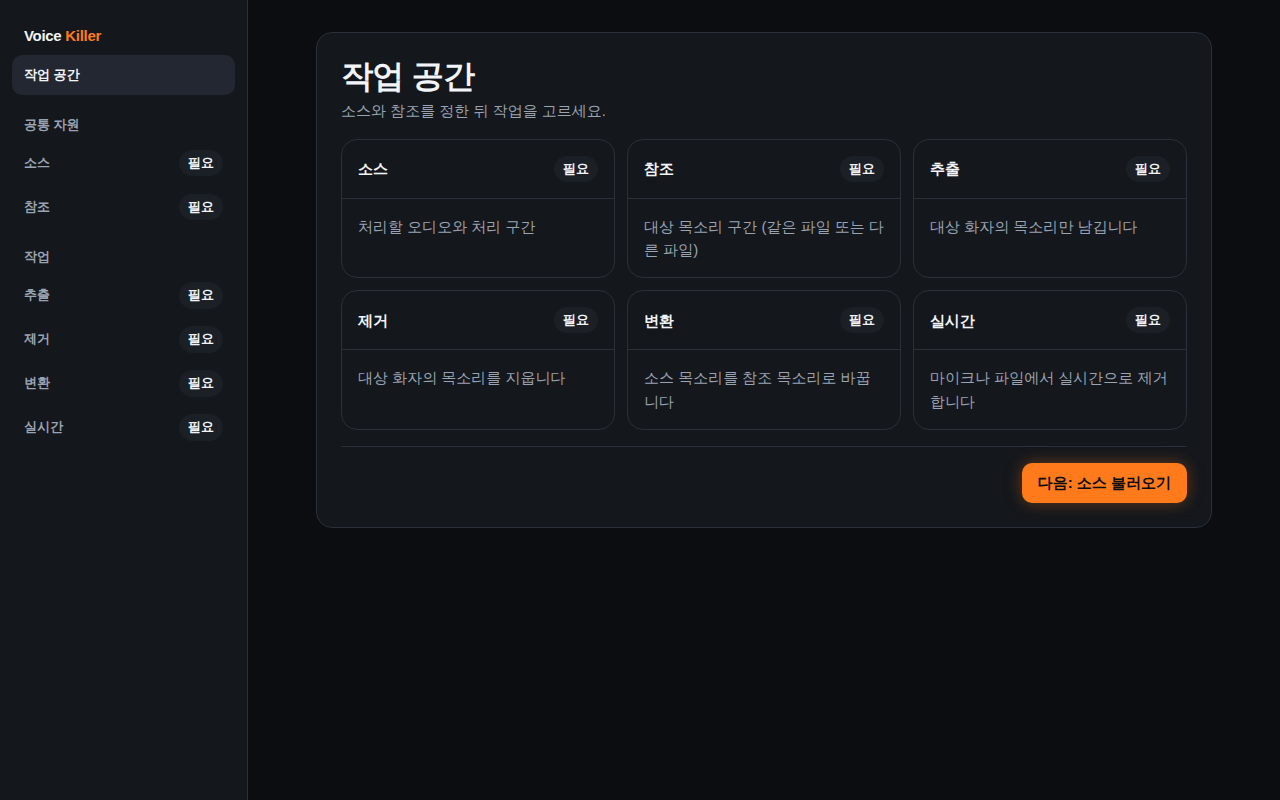
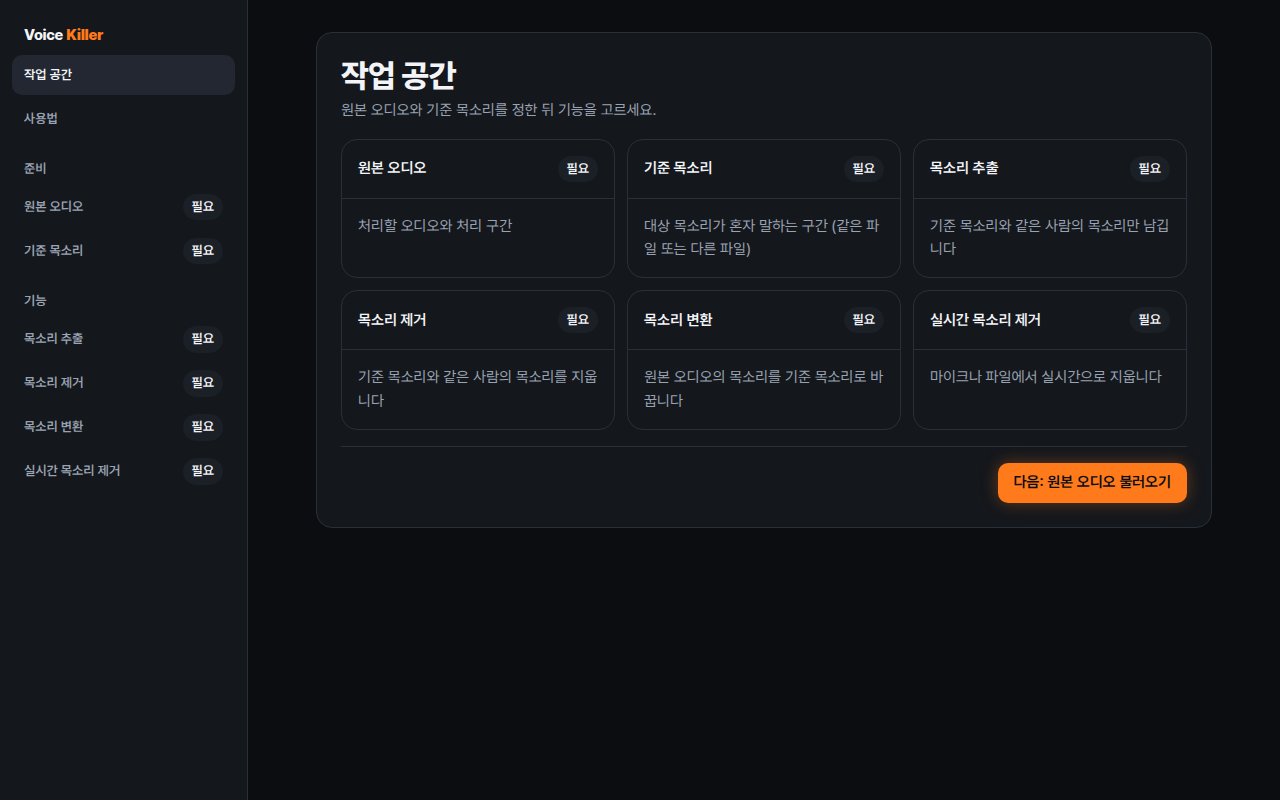
refactor(web): 메뉴 이름을 목소리 중심으로 변경하고 스크린샷 갱신

diff --git a/web/src/Help.tsx b/web/src/Help.tsx
@@ -34,68 +34,68 @@ export function Help() {
 
       <h2 className="vk-title">전체 흐름</h2>
       <p className="vk-muted" style={{ margin: 0 }}>
-        <b>소스</b>(처리할 오디오) → <b>참조</b>(지울/뽑을 사람의 목소리) → <b>작업</b>(추출·제거·변환·실시간) 순서입니다.
+        <b>원본 오디오</b>(처리할 파일) → <b>기준 목소리</b>(지울/뽑을 사람의 목소리) → <b>기능</b>(목소리 추출·제거·변환, 실시간 목소리 제거) 순서입니다.
         왼쪽 메뉴 오른쪽의 <b>필요 / 진행 중 / 완료</b> 배지로 지금 어디까지 했는지 볼 수 있습니다.
       </p>
-      <img className="vk-shot" src={hub} alt="작업 공간: 6개 메뉴가 모두 '필요' 상태이고 '다음: 소스 불러오기' 버튼이 있다" loading="lazy" />
+      <img className="vk-shot" src={hub} alt="작업 공간: 6개 메뉴가 모두 '필요' 상태이고 '다음: 원본 오디오 불러오기' 버튼이 있다" loading="lazy" />
 
-      <h2 className="vk-title">1. 소스 정하기</h2>
+      <h2 className="vk-title">1. 원본 오디오 정하기</h2>
       <ol className="vk-steps">
-        <Step n={1} title="오디오 올리기 또는 녹음" img={sourceEmpty} alt="소스 화면: 파일 올리기, 녹음 시작 버튼">
+        <Step n={1} title="오디오 올리기 또는 녹음" img={sourceEmpty} alt="원본 오디오 화면: 파일 올리기, 녹음 시작 버튼">
           <b>파일 올리기</b>를 누르고 오디오나 영상 파일(wav, mp3, mp4, webm 등)을 고릅니다. 직접 말하려면 <b>녹음 시작</b>을 누르고 끝나면 <b>녹음 중지</b>를 누릅니다.
         </Step>
-        <Step n={2} title="처리 구간 고르기" img={sourceLoaded} alt="소스 화면: 파형 전체가 주황색 처리 구간으로 선택되어 있다">
+        <Step n={2} title="처리 구간 고르기" img={sourceLoaded} alt="원본 오디오 화면: 파형 전체가 주황색 처리 구간으로 선택되어 있다">
           파형 위의 <b>주황색 영역</b>이 처리할 구간입니다. 양쪽 끝을 끌어 줄이고, 가운데를 끌어 옮깁니다. <b>▶ 재생</b>은 파형에서 클릭한 지점부터 재생하고(다시 누르면 <b>⏸ 일시정지</b>), <b>⏮ 처리 구간 처음부터</b>는 구간 시작에서 다시 재생합니다. 구간 끝에 닿으면 멈춥니다.
-          처음에는 파일 전체가 선택됩니다. 소스와 참조 배지가 <b>완료</b>가 되면 준비된 것입니다.
+          처음에는 파일 전체가 선택됩니다. 원본 오디오와 기준 목소리 배지가 <b>완료</b>가 되면 준비된 것입니다.
         </Step>
       </ol>
 
-      <h2 className="vk-title">2. 참조 정하기</h2>
+      <h2 className="vk-title">2. 기준 목소리 정하기</h2>
       <ol className="vk-steps">
-        <Step n={1} title="대상 목소리가 혼자 말하는 구간 지정" img={reference} alt="참조 화면: 참조 위치 선택과 초록색 참조 구간 파형">
-          <b>참조</b>는 "이 사람의 목소리"를 알려 주는 견본입니다. <b>초록색 영역</b>을 대상이 <b>혼자 말하는 5~10초</b>에 맞추세요. 다른 소리가 섞이면 엉뚱한 목소리를 잡을 수 있습니다.
+        <Step n={1} title="대상 목소리가 혼자 말하는 구간 지정" img={reference} alt="기준 목소리 화면: 기준 목소리 위치 선택과 초록색 기준 구간 파형">
+          <b>기준 목소리</b>는 "이 사람의 목소리"를 알려 주는 견본입니다. <b>초록색 영역</b>을 대상이 <b>혼자 말하는 5~10초</b>에 맞추세요. 다른 소리가 섞이면 엉뚱한 목소리를 잡을 수 있습니다.
           <ul>
-            <li><b>소스와 같은 파일</b>: 처리할 파일 안에서 그 사람이 혼자 말하는 곳을 고릅니다. 기본으로 처음 7초가 잡혀 있으니 꼭 확인하세요.</li>
+            <li><b>원본 오디오와 같은 파일</b>: 처리할 파일 안에서 그 사람이 혼자 말하는 곳을 고릅니다. 기본으로 처음 7초가 잡혀 있으니 꼭 확인하세요.</li>
             <li><b>다른 파일</b>: 그 사람의 목소리가 깨끗하게 들어 있는 별도 파일을 올립니다.</li>
           </ul>
           1초보다 짧으면 경고가 뜨고 진행할 수 없습니다.
         </Step>
       </ol>
 
-      <h2 className="vk-title">3. 작업 실행하기</h2>
-      <p className="vk-muted" style={{ margin: 0 }}>소스와 참조가 없어도 작업 메뉴는 열립니다. 이때는 무엇이 빠졌는지 알려 주고, 바로 가는 버튼을 보여 줍니다.</p>
+      <h2 className="vk-title">3. 기능 실행하기</h2>
+      <p className="vk-muted" style={{ margin: 0 }}>원본 오디오와 기준 목소리가 없어도 기능 메뉴는 열립니다. 이때는 무엇이 빠졌는지 알려 주고, 바로 가는 버튼을 보여 줍니다.</p>
 
-      <h3 className="vk-title">제거: 대상 목소리만 지우기</h3>
+      <h3 className="vk-title">목소리 제거: 대상 목소리만 지우기</h3>
       <ol className="vk-steps">
-        <Step n={1} title="강도를 정하고 실행" img={removeBefore} alt="제거 화면: 강도 슬라이더와 실행 버튼">
+        <Step n={1} title="강도를 정하고 실행" img={removeBefore} alt="목소리 제거 화면: 강도 슬라이더와 실행 버튼">
           <b>강도</b> 1.00이 가장 강하게 지우고, 낮출수록 대상 목소리가 더 남습니다. <b>실행</b>을 누르고 기다립니다.
         </Step>
-        <Step n={2} title="원본과 결과를 번갈아 듣기" img={removeResult} alt="제거 결과: 오디오 플레이어, 원본/결과 전환 버튼, 다운로드 버튼">
+        <Step n={2} title="원본과 결과를 번갈아 듣기" img={removeResult} alt="목소리 제거 결과: 오디오 플레이어, 원본/결과 전환 버튼, 다운로드 버튼">
           결과 플레이어로 듣거나, <b>원본(A) ↔ 결과(B)</b> 버튼으로 같은 위치에서 바로 비교합니다. 마음에 들면 <b>다운로드</b>, 아니면 강도나 구간을 바꿔 <b>다시 실행</b>합니다.
         </Step>
       </ol>
 
-      <h3 className="vk-title">추출: 대상 목소리만 남기기</h3>
+      <h3 className="vk-title">목소리 추출: 대상 목소리만 남기기</h3>
       <p className="vk-muted" style={{ margin: 0 }}>
-        사용법은 제거와 같고 결과만 반대입니다. 섞인 소리에서 참조 인물의 목소리만 남깁니다.
-        결과의 <b>이 결과를 참조로 쓰기</b> 버튼을 누르면 깨끗해진 목소리가 곧바로 참조가 되어, 변환에서 "닮을 목소리"로 쓸 수 있습니다.
+        사용법은 목소리 제거와 같고 결과만 반대입니다. 섞인 소리에서 기준 목소리와 같은 사람의 목소리만 남깁니다.
+        결과의 <b>이 결과를 기준 목소리로 쓰기</b> 버튼을 누르면 깨끗해진 목소리가 곧바로 기준 목소리가 되어, 변환에서 "닮을 목소리"로 쓸 수 있습니다.
       </p>
 
-      <h3 className="vk-title">변환: 내 목소리를 다른 사람 목소리로</h3>
+      <h3 className="vk-title">목소리 변환: 내 목소리를 다른 사람 목소리로</h3>
       <ol className="vk-steps">
-        <Step n={1} title="소스와 참조의 뜻이 다릅니다" img={convert} alt="변환 화면: 품질 선택과 안내 문구">
-          변환에서는 <b>처리 구간 = 바꿀 목소리</b>(내가 말한 것), <b>참조 = 닮을 목소리</b>(되고 싶은 사람)입니다. 소스는 최대 60초, 참조는 최대 30초입니다.
+        <Step n={1} title="원본 오디오와 기준 목소리의 뜻이 다릅니다" img={convert} alt="목소리 변환 화면: 품질 선택과 안내 문구">
+          변환에서는 <b>처리 구간 = 바꿀 목소리</b>(내가 말한 것), <b>기준 목소리 = 닮을 목소리</b>(되고 싶은 사람)입니다. 원본 오디오는 최대 60초, 기준 목소리는 최대 30초입니다.
           <b>품질 (10)</b>은 느리지만 더 낫고 <b>빠름 (4)</b>는 빠릅니다. 음원 길이의 약 2~3배가 걸리며, 결과에는 <b>합성 음성</b> 표시가 붙습니다.
         </Step>
       </ol>
 
-      <h3 className="vk-title">실시간: 마이크 소리에서 바로 지우기</h3>
+      <h3 className="vk-title">실시간 목소리 제거: 마이크 소리에서 바로 지우기</h3>
       <ol className="vk-steps">
-        <Step n={1} title="헤드폰을 끼고 시작" img={live} alt="실시간 화면: 헤드폰 경고, 입력 선택, 시작과 정지 버튼">
+        <Step n={1} title="헤드폰을 끼고 시작" img={live} alt="실시간 목소리 제거 화면: 헤드폰 경고, 입력 선택, 시작과 정지 버튼">
           스피커를 쓰면 소리가 마이크로 되돌아가 울립니다. <b>반드시 헤드폰</b>을 쓰세요.
           <ul>
-            <li><b>등록 음성</b>: 지울 목소리의 견본입니다. 참조 구간을 쓰거나, 그 사람 목소리를 마이크로 1~30초 녹음합니다.</li>
-            <li><b>입력</b>: 마이크 소리를 바로 처리하거나, 소스의 처리 구간을 실시간 속도로 재생하며 처리합니다. 파일 입력일 때는 <b>원본 듣기</b>로 처리 전 소리와 비교할 수 있습니다.</li>
+            <li><b>등록 음성</b>: 지울 목소리의 견본입니다. 기준 목소리 구간을 쓰거나, 그 사람 목소리를 마이크로 1~30초 녹음합니다.</li>
+            <li><b>입력</b>: 마이크 소리를 바로 처리하거나, 원본 오디오의 처리 구간을 실시간 속도로 재생하며 처리합니다. 파일 입력일 때는 <b>원본 듣기</b>로 처리 전 소리와 비교할 수 있습니다.</li>
             <li><b>블록</b>: 1초와 2초 중에서 고릅니다. 1초가 지연이 짧아 총지연이 약 1.6초, 2초는 약 2.9초입니다(시연 PC 측정값).</li>
           </ul>
           <b>시작</b>을 누르면 처리된 소리가 나오고 <b>정지</b>로 멈춥니다. 아래 지표에서 서버 왕복 시간과 예상 총 지연을 볼 수 있습니다.
@@ -105,7 +105,7 @@ export function Help() {
       <h2 className="vk-title">잘 안 될 때</h2>
       <dl className="vk-faq">
         <dt>대상 목소리가 안 지워지거나 다른 사람이 지워져요</dt>
-        <dd>참조 구간에 다른 소리가 섞였을 수 있습니다. 혼자 말하는 5~10초로 다시 지정하세요. 제거 강도를 1.00으로 올려 보는 것도 방법입니다.</dd>
+        <dd>기준 목소리 구간에 다른 소리가 섞였을 수 있습니다. 혼자 말하는 5~10초로 다시 지정하세요. 목소리 제거 강도를 1.00으로 올려 보는 것도 방법입니다.</dd>
         <dt>"다른 작업이 실행 중입니다"가 떠요</dt>
         <dd>서버는 한 번에 한 요청만 처리합니다. 앞 작업이 끝나면 실행할 수 있습니다.</dd>
         <dt>파형이 안 떠요</dt>
@@ -114,7 +114,7 @@ export function Help() {
         <dd>브라우저는 HTTPS나 localhost에서만 마이크를 허용합니다. 주소가 https로 시작하는지, 마이크 권한을 허용했는지 확인하세요.</dd>
       </dl>
 
-      <div className="vk-cta"><Button onClick={() => go("source")}>소스부터 시작하기</Button></div>
+      <div className="vk-cta"><Button onClick={() => go("source")}>원본 오디오부터 시작하기</Button></div>
     </section>
   );
 }

diff --git a/web/src/panels.tsx b/web/src/panels.tsx
@@ -38,10 +38,10 @@ function FilePick({ label, onFile }: { label: string; onFile: (f: File) => void 
 
 export function Hub() {
   const { s } = useApp();
-  const next: [string, NodeId] = statusOf(s, "source") !== "완료" ? ["다음: 소스 불러오기", "source"]
-    : statusOf(s, "reference") !== "완료" ? ["다음: 참조 지정", "reference"] : ["추천: 제거 해 보기", "remove"];
+  const next: [string, NodeId] = statusOf(s, "source") !== "완료" ? ["다음: 원본 오디오 불러오기", "source"]
+    : statusOf(s, "reference") !== "완료" ? ["다음: 기준 목소리 지정", "reference"] : ["추천: 목소리 제거 해 보기", "remove"];
   return (
-    <Panel title="작업 공간" purpose="소스와 참조를 정한 뒤 작업을 고르세요."
+    <Panel title="작업 공간" purpose="원본 오디오와 기준 목소리를 정한 뒤 기능을 고르세요."
       cta={<Button onClick={() => go(next[1])}>{next[0]}</Button>}>
       <div className="vk-hub">
         {NODES.map((n) => (
@@ -79,8 +79,8 @@ export function SourcePanel() {
   }
 
   return (
-    <Panel title="소스" purpose="처리할 오디오를 올리거나 녹음하고, 결과를 만들 구간을 정합니다."
-      cta={<Button onClick={() => go("reference")}>다음: 참조 지정</Button>}>
+    <Panel title="원본 오디오" purpose="처리할 오디오를 올리거나 녹음하고, 결과를 만들 구간을 정합니다."
+      cta={<Button onClick={() => go("reference")}>다음: 기준 목소리 지정</Button>}>
       <div className="vk-row">
         <FilePick label="파일 올리기" onFile={(f) => { setError(""); dispatch({ type: "source", blob: f, name: f.name }); }} />
         <Button variant="secondary" onClick={toggleRec}>{isRecording ? "녹음 중지" : "녹음 시작"}</Button>
@@ -102,19 +102,19 @@ export function ReferencePanel() {
   const { mode, file } = s.reference, blob = refBlobOf(s), range = refRangeOf(s);
   const r = range && range.end - range.start;
   return (
-    <Panel title="참조" purpose="대상 목소리가 혼자 말하는 5~10초 구간을 지정합니다."
+    <Panel title="기준 목소리" purpose="대상 목소리가 혼자 말하는 5~10초 구간을 지정합니다."
       cta={<Button onClick={() => go("hub")}>다음: 작업 선택</Button>}>
-      <RadioGroup label="참조 위치" value={mode} onValueChange={(v) => dispatch({ type: "refMode", mode: v as "same" | "file" })}
-        options={[{ value: "same", label: "소스와 같은 파일" }, { value: "file", label: "다른 파일" }]} />
+      <RadioGroup label="기준 목소리 위치" value={mode} onValueChange={(v) => dispatch({ type: "refMode", mode: v as "same" | "file" })}
+        options={[{ value: "same", label: "원본 오디오와 같은 파일" }, { value: "file", label: "다른 파일" }]} />
       {mode === "file" && (
-        <div className="vk-row"><FilePick label="참조 파일 올리기" onFile={(f) => dispatch({ type: "refFile", blob: f, name: f.name })} />{file && <span className="vk-muted">{file.name}</span>}</div>
+        <div className="vk-row"><FilePick label="기준 목소리 파일 올리기" onFile={(f) => dispatch({ type: "refFile", blob: f, name: f.name })} />{file && <span className="vk-muted">{file.name}</span>}</div>
       )}
       {mode === "same" && !s.source && <Missing items={["source"]} />}
       {blob && (
         <>
-          <Waveform key={mode} blob={blob} range={range} initial={(d) => ({ start: 0, end: Math.min(7, d) })} kind="reference" label="참조 구간" note={`참조 구간 ${fmt(range)}`}
+          <Waveform key={mode} blob={blob} range={range} initial={(d) => ({ start: 0, end: Math.min(7, d) })} kind="reference" label="기준 구간" note={`기준 구간 ${fmt(range)}`}
             onReady={(duration) => mode === "file" && dispatch({ type: "refFileReady", duration })} onRange={(rg) => dispatch({ type: "refRange", range: rg })} />
-          {r !== null && r < 1 && <Alert tone="warning" title="참조 구간이 너무 짧습니다">최소 1초, 권장 5~10초입니다.</Alert>}
+          {r !== null && r < 1 && <Alert tone="warning" title="기준 구간이 너무 짧습니다">최소 1초, 권장 5~10초입니다.</Alert>}
         </>
       )}
     </Panel>
@@ -146,7 +146,7 @@ function ResultBlock({ task, res }: { task: Task; res: Result }) {
         </Button>
         <a className="gc-button gc-button-secondary" href={res.url} download="result.wav">다운로드</a>
         {task === "extract" && (
-          <Button variant="secondary" onClick={() => { dispatch({ type: "refFile", blob: res.blob, name: "추출 결과" }); go("reference"); }}>이 결과를 참조로 쓰기</Button>
+          <Button variant="secondary" onClick={() => { dispatch({ type: "refFile", blob: res.blob, name: "추출 결과" }); go("reference"); }}>이 결과를 기준 목소리로 쓰기</Button>
         )}
       </div>
     </div>
@@ -154,9 +154,9 @@ function ResultBlock({ task, res }: { task: Task; res: Result }) {
 }
 
 const PURPOSE: Record<Task, string> = {
-  extract: "참조 목소리와 같은 화자의 목소리만 남깁니다.",
-  remove: "참조 목소리와 같은 화자의 목소리를 지웁니다.",
-  convert: "소스 목소리를 참조 목소리로 바꿉니다.",
+  extract: "기준 목소리와 같은 화자의 목소리만 남깁니다.",
+  remove: "기준 목소리와 같은 화자의 목소리를 지웁니다.",
+  convert: "원본 오디오의 목소리를 기준 목소리로 바꿉니다.",
 };
 
 export function TaskPanel({ task }: { task: Task }) {
@@ -180,7 +180,7 @@ export function TaskPanel({ task }: { task: Task }) {
       {task === "convert" && (
         <>
           <Select label="품질" value={steps} onValueChange={setSteps} options={[{ value: "10", label: "품질 (10)" }, { value: "4", label: "빠름 (4)" }]} />
-          <p className="vk-muted" style={{ margin: 0 }}>처리 구간 = 바꿀 목소리, 참조 = 닮을 목소리. 합성 음성이 만들어지며 음원 길이의 약 2~3배가 걸릴 수 있습니다.</p>
+          <p className="vk-muted" style={{ margin: 0 }}>원본 오디오의 처리 구간 = 바꿀 목소리, 기준 목소리 = 닮을 목소리. 합성 음성이 만들어지며 음원 길이의 약 2~3배가 걸릴 수 있습니다.</p>
         </>
       )}
       {otherRunning && <p className="vk-muted" style={{ margin: 0 }}>다른 작업이 실행 중입니다. 끝나면 실행할 수 있습니다.</p>}

diff --git a/web/src/App.tsx b/web/src/App.tsx
@@ -7,12 +7,12 @@ import { Hub, ReferencePanel, SourcePanel, TaskPanel } from "./panels";
 import { Help } from "./Help";
 
 export const NODES: { id: NodeId; label: string; desc: string; group: string }[] = [
-  { id: "source", label: "소스", desc: "처리할 오디오와 처리 구간", group: "공통 자원" },
-  { id: "reference", label: "참조", desc: "대상 목소리 구간 (같은 파일 또는 다른 파일)", group: "공통 자원" },
-  { id: "extract", label: "추출", desc: "대상 화자의 목소리만 남깁니다", group: "작업" },
-  { id: "remove", label: "제거", desc: "대상 화자의 목소리를 지웁니다", group: "작업" },
-  { id: "convert", label: "변환", desc: "소스 목소리를 참조 목소리로 바꿉니다", group: "작업" },
-  { id: "live", label: "실시간", desc: "마이크나 파일에서 실시간으로 제거합니다", group: "작업" },
+  { id: "source", label: "원본 오디오", desc: "처리할 오디오와 처리 구간", group: "준비" },
+  { id: "reference", label: "기준 목소리", desc: "대상 목소리가 혼자 말하는 구간 (같은 파일 또는 다른 파일)", group: "준비" },
+  { id: "extract", label: "목소리 추출", desc: "기준 목소리와 같은 사람의 목소리만 남깁니다", group: "기능" },
+  { id: "remove", label: "목소리 제거", desc: "기준 목소리와 같은 사람의 목소리를 지웁니다", group: "기능" },
+  { id: "convert", label: "목소리 변환", desc: "원본 오디오의 목소리를 기준 목소리로 바꿉니다", group: "기능" },
+  { id: "live", label: "실시간 목소리 제거", desc: "마이크나 파일에서 실시간으로 지웁니다", group: "기능" },
 ];
 export const labelOf = (id: NodeId) => NODES.find((n) => n.id === id)!.label;
 
@@ -41,9 +41,9 @@ function NavList({ route, onNavigate }: { route: string; onNavigate?: () => void
     <nav className="vk-nav" aria-label="주 메뉴">
       {item("hub", "작업 공간")}
       {item("help", "사용법")}
-      {["공통 자원", "작업"].map((g) => (
-        <div key={g} role="group" aria-labelledby={`g-${g === "작업" ? "task" : "res"}`} className="vk-nav">
-          <h2 id={`g-${g === "작업" ? "task" : "res"}`}>{g}</h2>
+      {["준비", "기능"].map((g) => (
+        <div key={g} role="group" aria-labelledby={`g-${g === "기능" ? "task" : "res"}`} className="vk-nav">
+          <h2 id={`g-${g === "기능" ? "task" : "res"}`}>{g}</h2>
           {NODES.filter((n) => n.group === g).map((n) => item(n.id, n.label, statusOf(s, n.id)))}
         </div>
       ))}

diff --git a/web/src/state.tsx b/web/src/state.tsx
@@ -31,7 +31,7 @@ type Action =
   | { type: "done"; task: Task; result: Result }
   | { type: "fail"; task: Task; message: string };
 
-export const TASK_LABEL: Record<Task, string> = { extract: "추출", remove: "제거", convert: "변환" };
+export const TASK_LABEL: Record<Task, string> = { extract: "목소리 추출", remove: "목소리 제거", convert: "목소리 변환" };
 const initial: State = { source: null, reference: { mode: "same", sameRange: null, file: null }, results: {}, running: {}, errors: {}, live: { isRunning: false, hasDone: false } };
 const REF_DEFAULT = 7; // seconds
 const revoke = (r?: Result) => r && (URL.revokeObjectURL(r.url), URL.revokeObjectURL(r.origUrl));
@@ -96,7 +96,7 @@ export const useApp = () => useContext(C)!;
 
 async function request(s: State, task: Task, p: Params): Promise<Result> {
   const src = s.source, rr = refRangeOf(s), rb = refBlobOf(s);
-  if (!src?.range || !rr || !rb) throw new Error("소스와 참조가 필요합니다");
+  if (!src?.range || !rr || !rb) throw new Error("원본 오디오와 기준 목소리가 필요합니다");
   const fd = new FormData();
   fd.append("audio", src.blob, "input");
   fd.append("start", String(src.range.start)); fd.append("end", String(src.range.end));
@@ -125,7 +125,7 @@ export function AppProvider({ children }: { children: ReactNode }) {
     const src = ref.current.source?.blob;
     try {
       const result = await request(ref.current, task, p);
-      if (ref.current.source?.blob !== src) { URL.revokeObjectURL(result.url); URL.revokeObjectURL(result.origUrl); dispatch({ type: "fail", task, message: "소스가 바뀌어 결과를 버렸습니다" }); }
+      if (ref.current.source?.blob !== src) { URL.revokeObjectURL(result.url); URL.revokeObjectURL(result.origUrl); dispatch({ type: "fail", task, message: "원본 오디오가 바뀌어 결과를 버렸습니다" }); }
       else { dispatch({ type: "done", task, result }); notify({ title: `${TASK_LABEL[task]} 완료`, tone: "success", timer: "circle" }); }
     }
     catch (e) { dispatch({ type: "fail", task, message: (e as Error).message }); notify({ title: `${TASK_LABEL[task]} 실패`, tone: "error" }); }

diff --git a/web/src/Live.tsx b/web/src/Live.tsx
@@ -130,15 +130,15 @@ export function Live() {
   return (
     <section className="vk-panel" aria-labelledby="panel-title">
       <header>
-        <h1 id="panel-title" className="vk-display">실시간 {isRunning && <span className="vk-live-dot" role="img" aria-label="실행 중" />}</h1>
+        <h1 id="panel-title" className="vk-display">실시간 목소리 제거 {isRunning && <span className="vk-live-dot" role="img" aria-label="실행 중" />}</h1>
         <p>마이크나 파일에서 대상 목소리를 실시간으로 제거합니다.</p>
       </header>
       <Alert tone="warning" title="헤드폰을 쓰세요">스피커 되먹임을 막기 위해서입니다. 마이크는 에코 제거, 잡음 억제, 자동 게인을 끄고 받습니다.</Alert>
       <RadioGroup label="등록 음성" value={enrollSrc} onValueChange={setEnrollSrc} isDisabled={isRunning}
-        options={[{ value: "ref", label: "참조 구간" }, { value: "mic", label: "마이크로 녹음" }]} />
+        options={[{ value: "ref", label: "기준 목소리 구간" }, { value: "mic", label: "마이크로 녹음" }]} />
       {enrollSrc === "mic" && <TextField label="녹음 시간 (초, 1~30)" type="number" min={1} max={30} value={secs} disabled={isRunning} onChange={(e) => setSecs(e.target.value)} />}
       <RadioGroup label="입력" value={inSrc} onValueChange={setInSrc} isDisabled={isRunning}
-        options={[{ value: "mic", label: "마이크" }, { value: "file", label: "소스의 처리 구간 (실시간 재생)" }]} />
+        options={[{ value: "mic", label: "마이크" }, { value: "file", label: "원본 오디오의 처리 구간 (실시간 재생)" }]} />
       <div className="vk-row">
         <Switch label="원본 듣기" isChecked={isOrig} isDisabled={isRunning || inSrc !== "file"} onCheckedChange={setIsOrig} />
         <Select label="블록" value={block} onValueChange={setBlock} isDisabled={isRunning} options={[{ value: "1", label: "1초" }, { value: "2", label: "2초" }]} />

diff --git a/src/voice_killer/web.py b/src/voice_killer/web.py
@@ -82,13 +82,13 @@ def process(audio: UploadFile = File(...), start: float = Form(0.0), end: float 
     mix = crop(x, start, end, "처리", MAX_SECONDS)
     if mode == "convert" and len(mix) > engine.MAX_VC_SOURCE * SR:
         raise HTTPException(400, f"변환할 구간은 최대 {engine.MAX_VC_SOURCE}초입니다")
-    enroll = crop(decode(ref) if ref and ref.filename else x, ref_start, ref_end, "참조")
+    enroll = crop(decode(ref) if ref and ref.filename else x, ref_start, ref_end, "기준 목소리")
     try:
         engine.check_enrollment(enroll)
     except ValueError as e:
-        raise HTTPException(400, f"참조 구간: {e}")
+        raise HTTPException(400, f"기준 목소리 구간: {e}")
     if mode == "convert" and len(enroll) > engine.MAX_VC_REFERENCE * SR:
-        raise HTTPException(400, f"참조 구간은 최대 {engine.MAX_VC_REFERENCE}초입니다")
+        raise HTTPException(400, f"기준 목소리 구간은 최대 {engine.MAX_VC_REFERENCE}초입니다")
     with lock:
         if mode == "convert":
             try:

diff --git a/README.md b/README.md
@@ -27,12 +27,12 @@ bash scripts/setup_vc.sh     # 변환(선택): .venv-seedvc, Seed-VC (가중치 
 
 화면은 **작업 공간**을 중심으로 6개 메뉴를 자유롭게 오간다. 메뉴의 배지가 각 단계가 `필요`인지, `진행 중`인지, `완료`인지 보여 준다.
 
-1. **소스**: 처리할 오디오를 올리거나 녹음하고, 파형에서 처리 구간(주황)을 고른다. 업로드는 ffmpeg로 변환하므로 wav, mp3, mp4, webm 모두 된다.
-2. **참조**: 대상 인물이 혼자 말하는 구간(초록)을 고른다. 같은 파일을 써도 되고 다른 파일을 올려도 된다.
-3. **작업**: 추출, 제거, 변환, 실시간 중 하나를 실행하고 원본과 결과를 번갈아 듣는다.
-   - **추출**: 결과 화면의 "이 결과를 참조로 쓰기" 버튼을 누르면 잡음 섞인 영상에서 뽑은 목소리를 변환의 참조로 바로 쓸 수 있다.
-   - **변환**: 원본은 최대 60초, 참조는 최대 30초까지 쓸 수 있다. 결과는 합성 음성임을 표시한다.
-   - **실시간**: 마이크 입력이나 파일 구간을 1초 또는 2초 블록으로 처리한다. 스피커 소리가 마이크로 되먹임되지 않도록 헤드폰을 쓴다.
+1. **원본 오디오**: 처리할 오디오를 올리거나 녹음하고, 파형에서 처리 구간(주황)을 고른다. 업로드는 ffmpeg로 변환하므로 wav, mp3, mp4, webm 모두 된다.
+2. **기준 목소리**: 대상 인물이 혼자 말하는 구간(초록)을 고른다. 같은 파일을 써도 되고 다른 파일을 올려도 된다.
+3. **기능**: 목소리 추출, 목소리 제거, 목소리 변환, 실시간 목소리 제거 중 하나를 실행하고 원본과 결과를 번갈아 듣는다.
+   - **목소리 추출**: 결과 화면의 "이 결과를 기준 목소리로 쓰기" 버튼을 누르면 잡음 섞인 영상에서 뽑은 목소리를 변환의 기준 목소리로 바로 쓸 수 있다.
+   - **목소리 변환**: 원본 오디오는 최대 60초, 기준 목소리는 최대 30초까지 쓸 수 있다. 결과는 합성 음성임을 표시한다.
+   - **실시간 목소리 제거**: 마이크 입력이나 파일 구간을 1초 또는 2초 블록으로 처리한다. 스피커 소리가 마이크로 되먹임되지 않도록 헤드폰을 쓴다.
 
 서버는 기본적으로 127.0.0.1에서만 열리며 한 번에 한 요청만 처리한다. 수 분이 넘는 고음질 원본은 브라우저의 파형 표시가 멈출 수 있으니 시연용으로 잘라 쓴다.
 
